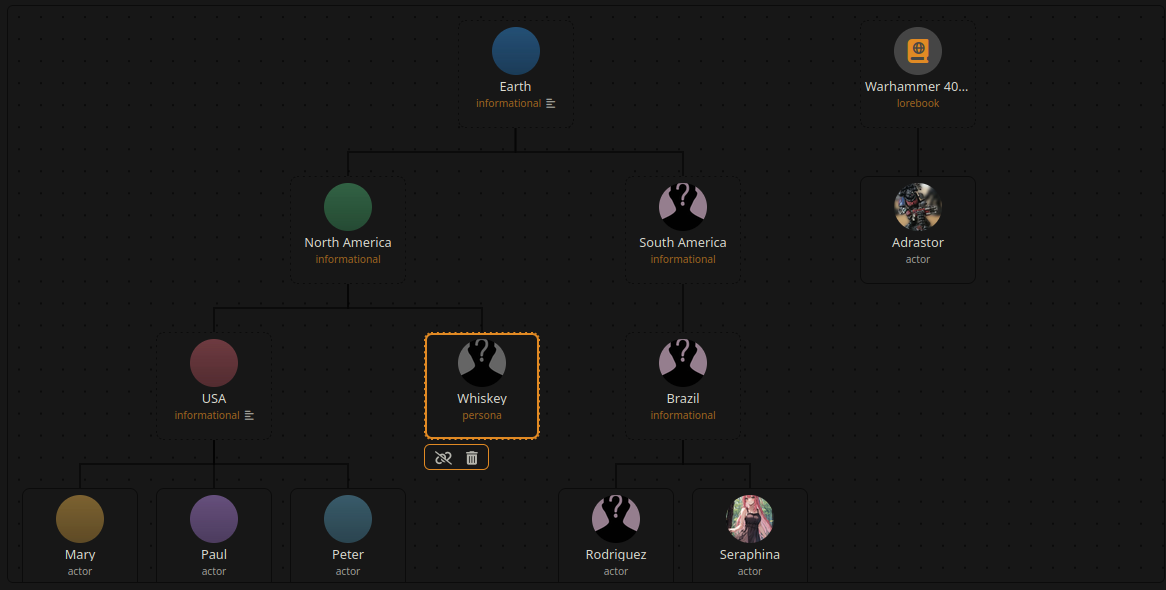
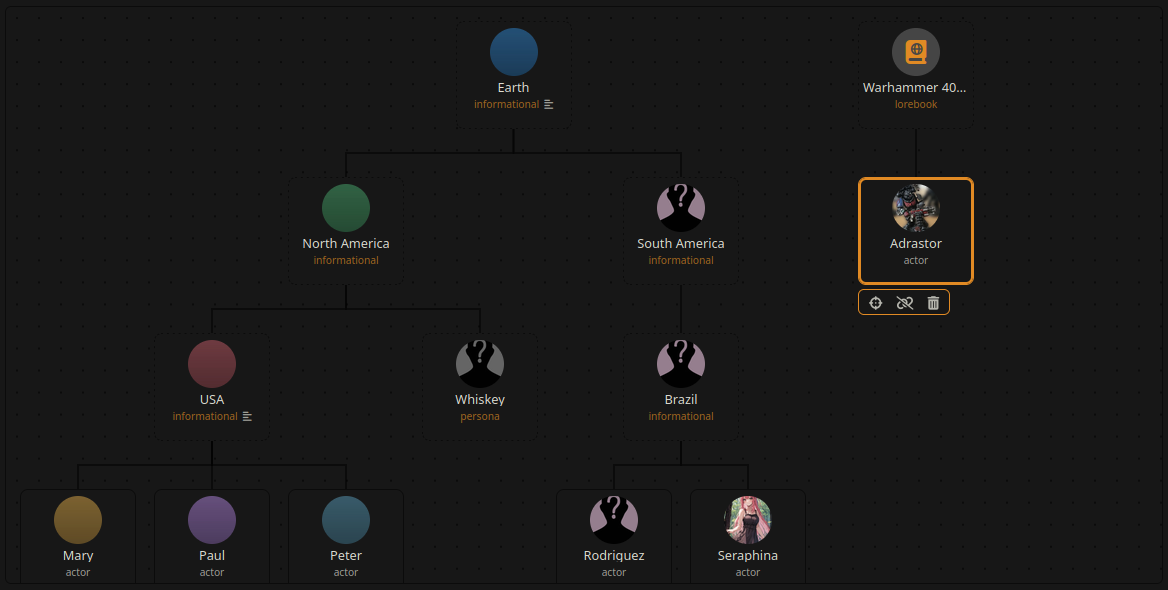
Use a screenshot that shows the full action strip
The previous capture predated the focus toggle being added to the strip,
so it showed only detach and remove. This one has all three, on a
character selected under the lorebook that roots its tree.

diff --git a/README.md b/README.md
@@ -24,10 +24,10 @@ Brant's own book. Neither card needs the other's lorebooks attached by hand, and
 to *Aldian History* reaches every character in the kingdom at once.
 
 ![The chart, with two trees side by side. Earth is the root of one, with North America and
-South America beneath it, USA under North America, and Mary, Paul and Peter on the bottom row.
-A persona called Whiskey is selected, with its actions showing underneath. The second tree is
-rooted on a Warhammer 40,000 lorebook, drawn as a book icon, with the character Adrastor nested
-under it.](media/panel.png)
+South America beneath it, USA and a persona called Whiskey under North America, and Mary, Paul
+and Peter on the bottom row. The second tree is rooted on a Warhammer 40,000 lorebook, drawn as
+a book icon, with the character Adrastor nested under it; Adrastor is selected, and the strip
+beneath it offers focus, detach and remove.](media/panel.png)
 
 ## What you get
 
